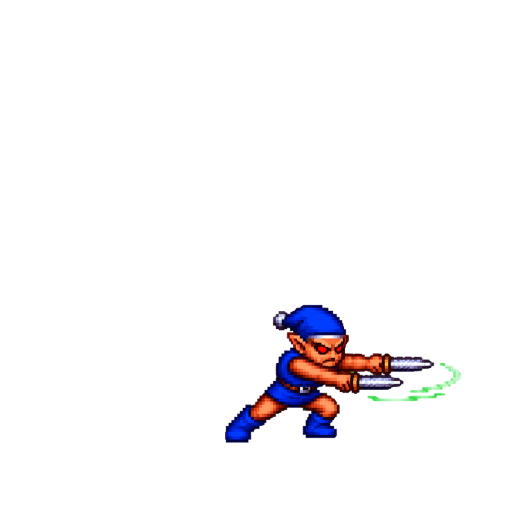
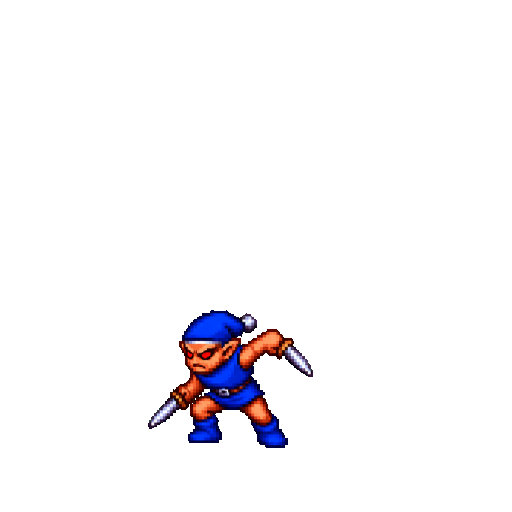
implementacion goblin terminada

Changed region(s): [[0.2812, 0.5938, 0.875, 0.875], [0.875, 0.7188, 0.9062, 0.75]]

diff --git a/core/src/main/java/com/mortaTower/Screens/CombateScreen.java b/core/src/main/java/com/mortaTower/Screens/CombateScreen.java
@@ -7,9 +7,9 @@ import com.badlogic.gdx.scenes.scene2d.InputEvent;
 import com.badlogic.gdx.scenes.scene2d.Stage;
 import com.badlogic.gdx.scenes.scene2d.ui.ImageButton;
 import com.badlogic.gdx.scenes.scene2d.utils.ClickListener;
+import com.mortaTower.Controlador.RecompensaControlador;
 import com.mortaTower.Hilo.GoblinAtacante;
 import com.mortaTower.Main;
-import com.mortaTower.Controlador.RecompensaControlador;
 import com.mortaTower.Modelo.CombateModelo;
 import com.mortaTower.Modelo.CombateModelo.Resultado;
 import com.mortaTower.Modelo.Entidad;
@@ -20,7 +20,6 @@ import com.mortaTower.Modelo.HabilidadCuracion;
 import com.mortaTower.Modelo.HabilidadDefensa;
 import com.mortaTower.Modelo.HabilidadMana;
 import com.mortaTower.Modelo.Heroe;
-import com.mortaTower.Modelo.RecompensasModelo;
 import com.mortaTower.Strategy.ComportamientoAgresivo;
 import com.mortaTower.Vista.CombateVista;
 import com.mortaTower.Vista.PausaVista;
@@ -28,11 +27,9 @@ import com.mortaTower.Vista.PausaVista;
 public class CombateScreen extends Screens {
 
     private CombateModelo modelo;
-
     private RecompensaControlador recompensaControlador;
     
     private CombateVista vista;     
-   
     private PausaVista vistaPausa;
 
     private boolean victoriaProcesada = false;
@@ -47,13 +44,13 @@ public class CombateScreen extends Screens {
 
     private boolean pausa = false;
     private boolean seleccionandoReemplazo = false;
-    
-    
     private Habilidad recompensaSeleccionada;
 
     //Goblin
     private Goblin goblin;
     private GoblinAtacante hiloGoblin;
+    private float tempRecuperacionHeroe = 0f;
+    private boolean heroeAturdido = false;
 
     //constructor
     public CombateScreen(Main game, int nivel) {
@@ -195,22 +192,68 @@ public class CombateScreen extends Screens {
         vista.comentarista(spriteBatch);
         vista.resultado(spriteBatch);
 
+        if (heroeAturdido) {
+            tempRecuperacionHeroe -= delta;
+            if(tempRecuperacionHeroe <= 0) {
+                modelo.getHeroe().setEstadoActual(Entidad.Estado.PARADO);
+                heroeAturdido = false;
+            }
+        }
+
         //LOGICA Y DIBUJADO DEL GOBLIN
         if (goblin != null && goblin.getActivo() && !pausa) {
             goblin.sumarStateTime(delta);
-            float velocidadGoblin = 200f;
-            goblin.setX(goblin.getX() - (velocidadGoblin * delta));
+            
+            switch (goblin.getEstadoActual()) {
+                case CORRIENDO -> {
+                    float velocidad = 200f;
+                    goblin.setX(goblin.getX() - (velocidad * delta));
+                    
+                    float posicionImpacto = WORLD_WIDTH * 0.20f;
+                    if (goblin.getX() <= posicionImpacto) {
+                        goblin.cambiarEstado(Goblin.EstadoGoblin.ATACANDO);
+                        modelo.getHeroe().recibirDanio(goblin.getDanio());
+                        modelo.getHeroe().setEstadoActual(Entidad.Estado.DANIO);
+                        heroeAturdido = true;
+                        tempRecuperacionHeroe = vista.getTiempoAnimacionHeroe(Entidad.Estado.DANIO);
+                        modelo.mostrarMensaje("¡Un duende te robó " + goblin.getDanio() + " de vida!");
+                    }
+                }
 
-            vista.dibujarGoblin(spriteBatch, goblin.getX(), goblin.getY(), goblin.getStateTime());
+                case ATACANDO -> {
+                    float duracionAtaque = vista.getTiempoAnimacionGoblin(Goblin.EstadoGoblin.ATACANDO);
+                    if (goblin.getStateTime() >= duracionAtaque) {
+                        goblin.cambiarEstado(Goblin.EstadoGoblin.ESCAPANDO);
+                    }
+                }
 
-            float posicionImpacto = WORLD_WIDTH * 0.15f;
-            if (goblin.getX() <= posicionImpacto) {
-                goblin.setActivo(false);
+                case ESCAPANDO -> {
+                    //tiempo que lleva en este estado
+                    float t = goblin.getStateTime();
+                    
+                    //movimiento horizontal
+                    float velocidadX = 650f; 
+                    goblin.setX(goblin.getX() + (velocidadX * delta));
 
-                modelo.getHeroe().recibirDanio(goblin.getDanio());
-                modelo.getHeroe().setEstadoActual(Entidad.Estado.DANIO);
-                modelo.mostrarMensaje("¡Un duende te robó " + goblin.getDanio() + " de vida!");
+                    //movimiento vertical (parabola)
+                    float pisoY = WORLD_HEIGHT * 0.40f; // la altura desde la que salto
+                    float fuerzaSalto = 800f; // impulso inicial hacia arriba
+                    float gravedad = 1000f;   // que tan fuerte lo tira al piso
+                    
+                    // Y = inicio + (fuerza * t) - (1/2 * gravedad * t^2)
+                    float nuevaY = pisoY + (fuerzaSalto * t) - (0.5f * gravedad * (t * t));
+                    goblin.setY(nuevaY);
+
+                    //si cruza el borde derecho de la pantalla, desaparece
+                    if (goblin.getX() > WORLD_WIDTH + 100) {
+                        goblin.setActivo(false);
+                    }
+                }
             }
+            vista.dibujarGoblin(spriteBatch, goblin.getX(), goblin.getY(), goblin.getStateTime(), goblin.getEstadoActual());
+
+            
+            
         }
 
         spriteBatch.end();

diff --git a/core/src/main/java/com/mortaTower/Vista/CombateVista.java b/core/src/main/java/com/mortaTower/Vista/CombateVista.java
@@ -30,6 +30,7 @@ import com.mortaTower.Main;
 import com.mortaTower.Modelo.CombateModelo;
 import com.mortaTower.Modelo.Enemigo;
 import com.mortaTower.Modelo.Entidad;
+import com.mortaTower.Modelo.Goblin;
 import com.mortaTower.Modelo.Habilidad;
 import com.mortaTower.Modelo.Heroe;
 import static com.mortaTower.Screens.Screens.WORLD_HEIGHT;
@@ -75,7 +76,7 @@ public class CombateVista {
     private TextureAtlas atlas;
 
     //ANIMACION GOBLIN
-    private Animation<TextureRegion> animacionGoblin;
+    private Map<Goblin.EstadoGoblin, Animation<TextureRegion>> animacionesGoblin = new HashMap<>();
 
     // CONSTRUCTOR
     public CombateVista(FitViewport viewport, CombateModelo modelo, Main game, int nivel) {
@@ -413,20 +414,38 @@ public class CombateVista {
         }
         animacionesEnemigo.put(Entidad.Estado.DANIO, new Animation<>(0.60f, framesDanioE, Animation.PlayMode.NORMAL));
 
-        //animacion de goblin
-        Array<TextureRegion> framesGoblin = new Array<>();
+        //goblin corriendo
+        Array<TextureRegion> framesGoblinC = new Array<>();
         for (int i = 1; i <= 4; i++) {
             String ruta = "Imagenes/Personajes/Enemigo/duende/duendeCorriendo" + i + ".png";
             Texture textura = new Texture(Gdx.files.internal(ruta));
-            framesGoblin.add(new TextureRegion(textura));
+            framesGoblinC.add(new TextureRegion(textura));
         }
-        animacionGoblin = new Animation<>(0.15f, framesGoblin, Animation.PlayMode.LOOP);
+        animacionesGoblin.put(Goblin.EstadoGoblin.CORRIENDO, new Animation<>(0.15f, framesGoblinC, Animation.PlayMode.LOOP));
+
+        //goblin atacando
+        Array<TextureRegion> framesGoblinA = new Array<>();
+        for (int i = 1; i <= 2; i++) {
+            String ruta = "Imagenes/Personajes/Enemigo/duende/duendeAtaque" + i + ".png";
+            Texture textura = new Texture(Gdx.files.internal(ruta));
+            framesGoblinA.add(new TextureRegion(textura));
+        }
+        animacionesGoblin.put(Goblin.EstadoGoblin.ATACANDO, new Animation<>(0.15f, framesGoblinA, Animation.PlayMode.LOOP));
+
+        Array<TextureRegion> framesGoblinS = new Array<>();
+        for (int i = 1; i <= 2; i++) {
+            String ruta = "Imagenes/Personajes/Enemigo/duende/duendeSaltando" + i + ".png";
+            Texture textura = new Texture(Gdx.files.internal(ruta));
+            framesGoblinS.add(new TextureRegion(textura));
+        }
+        animacionesGoblin.put(Goblin.EstadoGoblin.ESCAPANDO, new Animation<>(0.8f, framesGoblinS, Animation.PlayMode.NORMAL));
     }
 
-    public void dibujarGoblin(SpriteBatch batch, float x, float y, float stateTime) {
-        if (animacionGoblin != null) {
-            TextureRegion frame = animacionGoblin.getKeyFrame(stateTime, true);
-            batch.draw(frame, x, y, 100, 100);
+    public void dibujarGoblin(SpriteBatch batch, float x, float y, float stateTime, Goblin.EstadoGoblin estado) {
+        Animation<TextureRegion> animacionActual = animacionesGoblin.get(estado);
+        if (animacionActual != null) {
+            TextureRegion frame = animacionActual.getKeyFrame(stateTime, true);
+            batch.draw(frame, x, y, 150, 150);
         }
     }
 
@@ -443,10 +462,19 @@ public class CombateVista {
         }
         return 1.0f;
     }
+    
     public float getTiempoAnimacionEnemigo(Entidad.Estado estado){
         Animation<TextureRegion> animacion = animacionesEnemigo.get(estado);
         if (animacion != null) {
             return animacion.getAnimationDuration(); // Devuelve la duración de la animación
+        }
+        return 1.0f;
+    }
+
+    public float getTiempoAnimacionGoblin(Goblin.EstadoGoblin estado) {
+        Animation<TextureRegion> animacion = animacionesGoblin.get(estado);
+        if (animacion != null) {
+            return animacion.getAnimationDuration(); 
         }
         return 1.0f;
     }

diff --git a/core/src/main/java/com/mortaTower/Modelo/Goblin.java b/core/src/main/java/com/mortaTower/Modelo/Goblin.java
@@ -1,12 +1,15 @@
 package com.mortaTower.Modelo;
 
 public class Goblin {
+
+    public enum EstadoGoblin {CORRIENDO, ATACANDO, ESCAPANDO}
     
     private boolean activo;
     private float x;
     private float y;
     private float stateTime;
     private int danio;
+    private EstadoGoblin estadoActual;
 
     public Goblin() {
         this.activo = false;
@@ -14,13 +17,20 @@ public class Goblin {
         this.y = 0;
         this.stateTime = 0;
         this.danio= 10;
+        this.estadoActual = EstadoGoblin.CORRIENDO;
     }
 
     public void prepararCorrida(float posicionInicialx, float posicionInicialy) {
         this.activo = true;
         this.x = posicionInicialx;
         this.y = posicionInicialy;
-        this.stateTime = 0; 
+        this.stateTime = 0;
+        this.estadoActual = EstadoGoblin.CORRIENDO;
+    }
+
+    public void cambiarEstado(EstadoGoblin nuevoEstado) {
+        this.estadoActual = nuevoEstado;
+        this.stateTime = 0;
     }
 
     // GETTERS Y SETTERS
@@ -38,4 +48,6 @@ public class Goblin {
 
     public int getDanio() {return danio;}
     public void setDanio(int danio) {this.danio = danio;}
+
+    public EstadoGoblin getEstadoActual() {return estadoActual;}
 }
